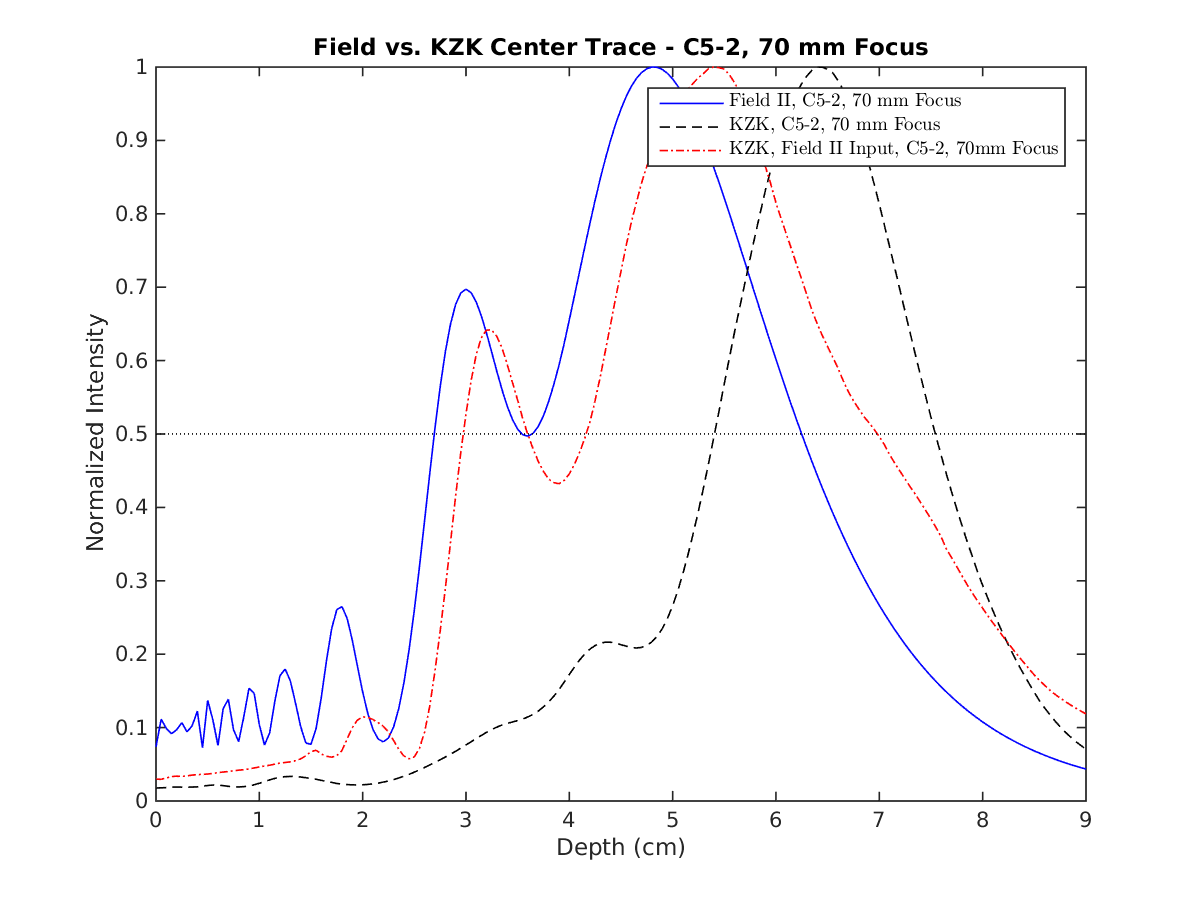
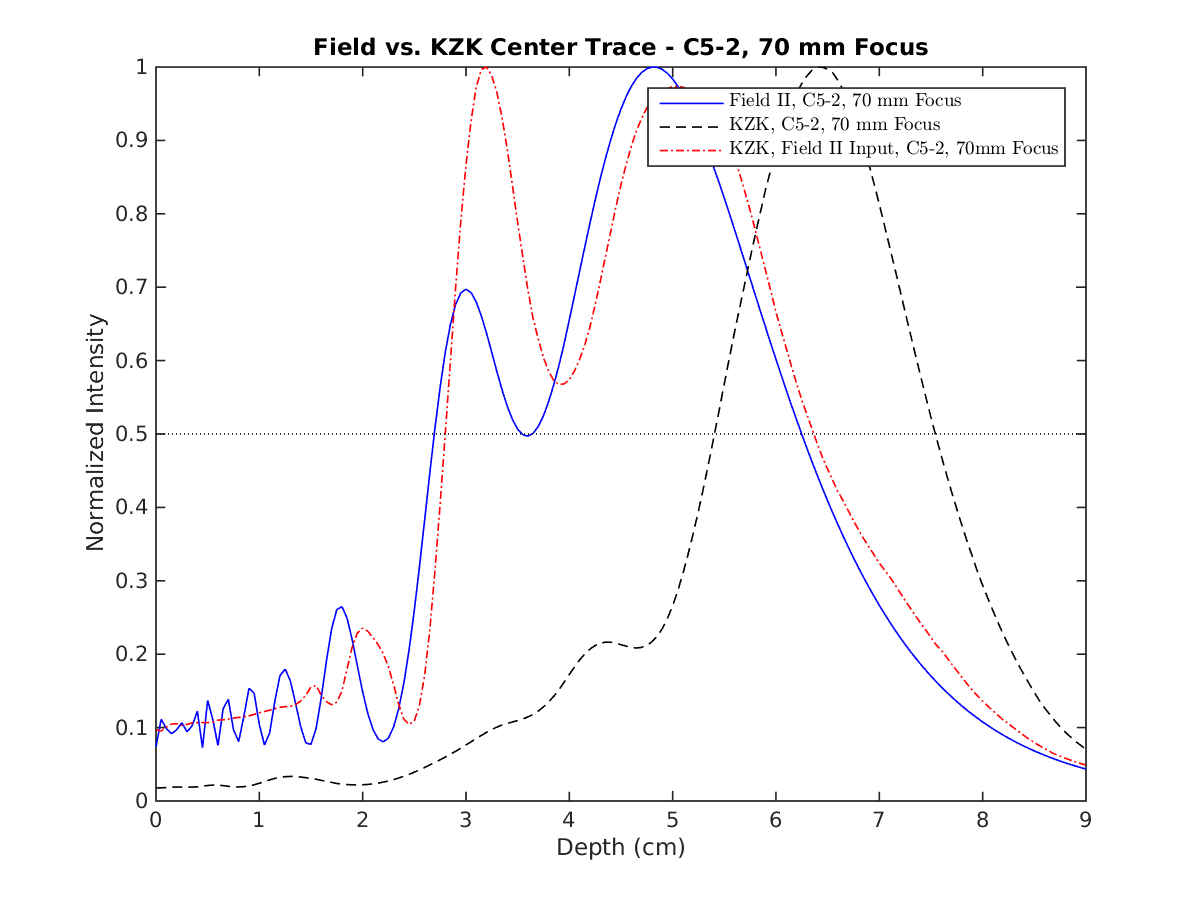
updated 70mm focus linear sim comparison plots with updated kzk sim (attenuation coefficient fixed to be actually 0.45 dB/cm/MHz)

diff --git a/comparisons/focus70mm/linear_compare/linear_compare.m b/comparisons/focus70mm/linear_compare/linear_compare.m
@@ -1,6 +1,6 @@
 clear; clf;
 
-addpath ../../metrics/
+addpath ../../../metrics/
 
 %% Field II and KZK (linear) sim comparisons - 70 mm focus
 
